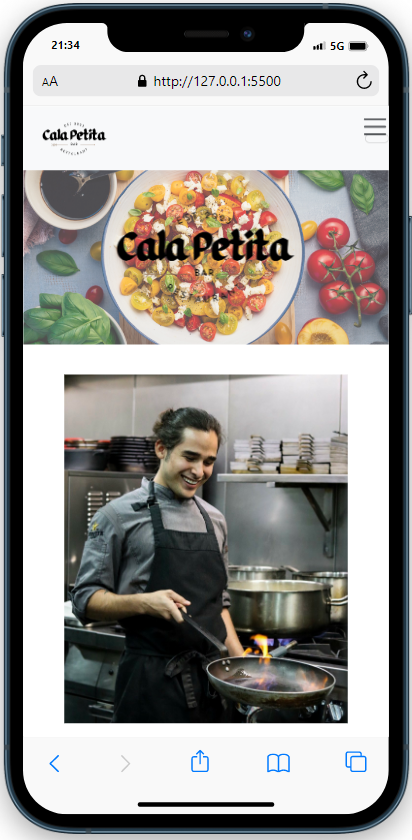
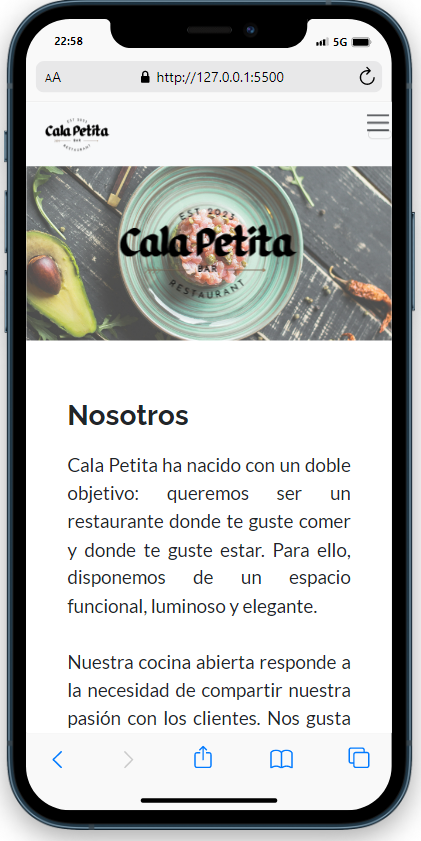
modified apartado nosotros

diff --git a/index.html b/index.html
@@ -67,11 +67,6 @@
     <section class="about align-middle">
         <div class="container">
             <div class="row nosotros">
-                <div class="col-md-4">
-                    <div class="container-fluid">
-                        <div class="fotos text-center"><img src="img/img-5530.svg" width="100%" alt=""></div>
-                    </div>
-                </div>
                 <div class="col-md-8">
                     <h2>Nosotros</h2>
                     <p class="text-nosotros">Cala Petita ha nacido con un doble objetivo: queremos ser
@@ -90,6 +85,11 @@
                         hemos
                         dado rienda suelta a nuestra imaginación y a nuestro deseo de innovar.
                     </p>
+                </div>
+                <div class="col-md-4">
+                    <div class="container-fluid">
+                        <div class="fotos text-center"><img src="img/img-5530.svg" width="80%" alt=""></div>
+                    </div>
                 </div>
             </div>
         </div>
